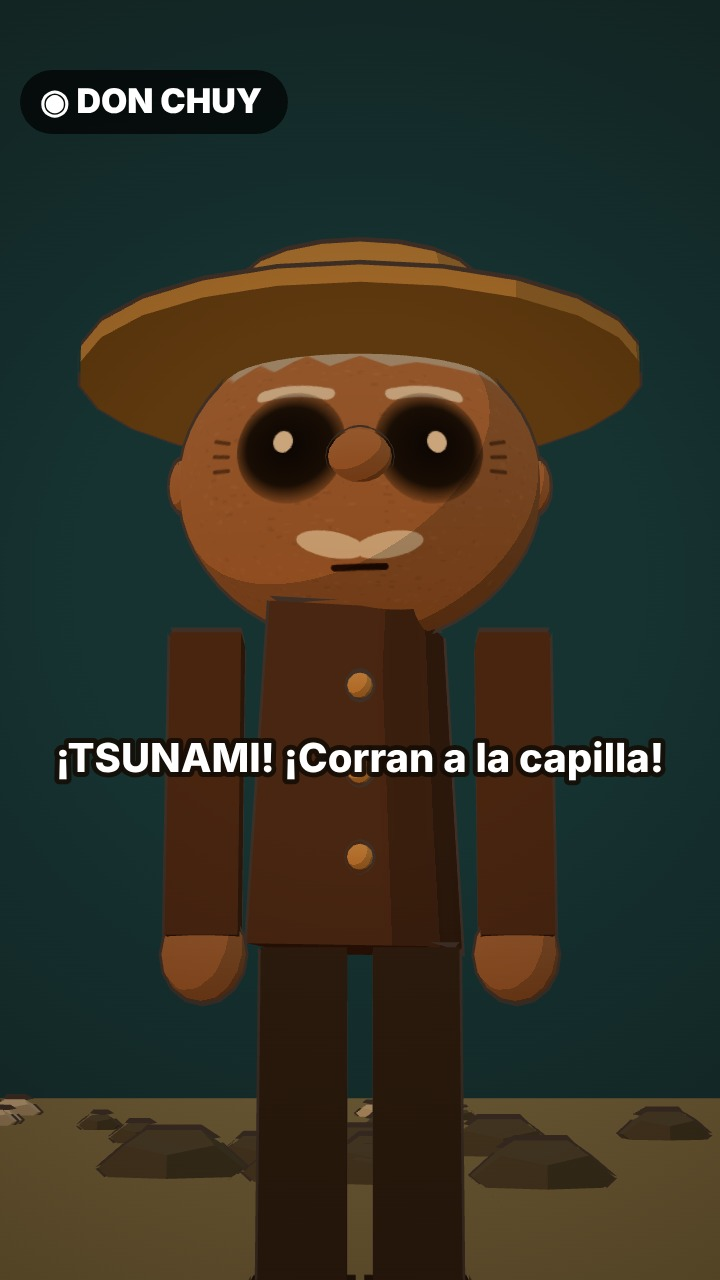
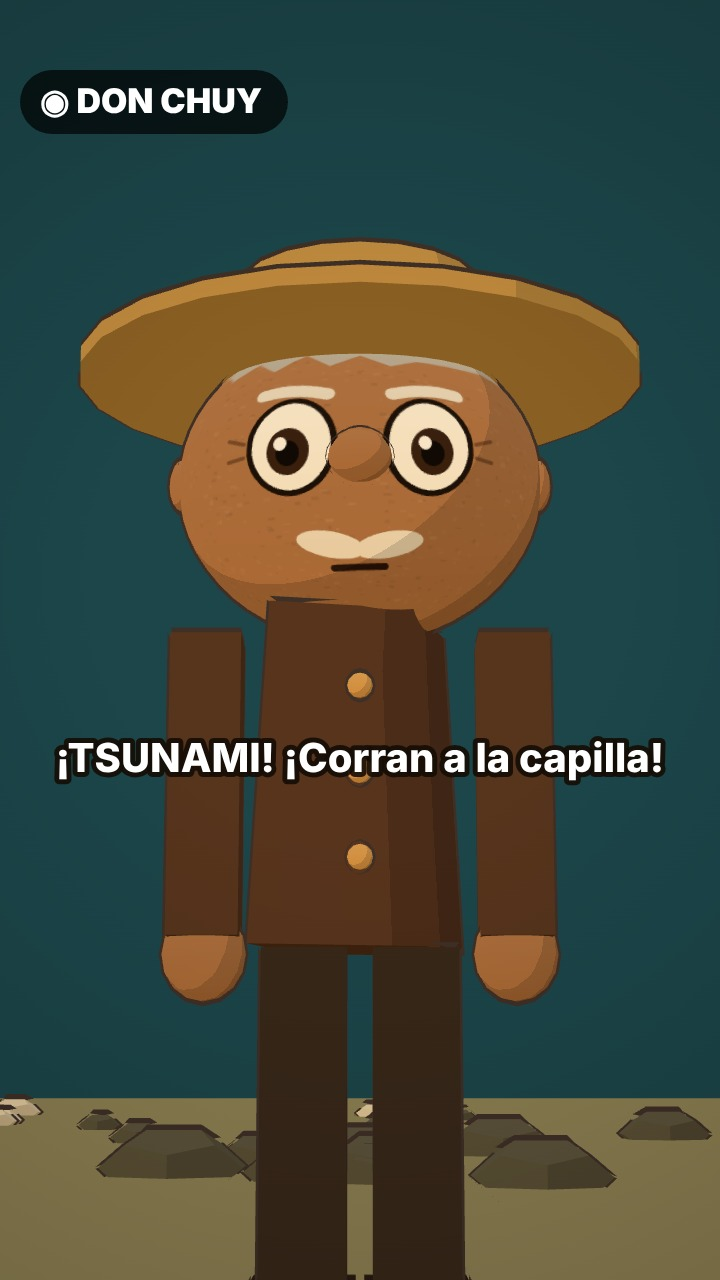
Personajes: solo la forma de la referencia, ojos normales y colores de playa
Claude-Session: https://claude.ai/code/session_01464Uwv7piUvh5Q9hg4RwxF

diff --git a/el-mar-se-fue/render/chars.js b/el-mar-se-fue/render/chars.js
@@ -29,15 +29,15 @@ function faceTex(o) {
   // eyebrows
   g.strokeStyle = o.brow; g.lineWidth = 14; g.lineCap = 'round';
   for (const s of [-1, 1]) { g.beginPath(); g.moveTo(cx + s * 30, 196 - (o.worried ? s * 0 : 0)); g.quadraticCurveTo(cx + s * 62, o.worried ? 176 : 186, cx + s * 96, o.worried ? 200 : 192); g.stroke(); }
-  // sunken eye sockets with tiny white pupils
+  // ojos normales de caricatura: blanco, pupila, brillo
   for (const s of [-1, 1]) {
-    const ex = cx + s * 64, ey = 250;
-    const grd = g.createRadialGradient(ex, ey, 6, ex, ey, 62); grd.addColorStop(0, 'rgba(18,14,10,1)'); grd.addColorStop(0.62, 'rgba(25,20,14,0.95)'); grd.addColorStop(1, 'rgba(40,28,18,0)');
-    g.fillStyle = grd; g.beginPath(); g.ellipse(ex, ey, 52, 58, 0, 0, Math.PI * 2); g.fill();
-    g.fillStyle = '#f4efe2'; g.beginPath(); g.ellipse(ex + s * 4, ey - 4, 9, 11, 0, 0, Math.PI * 2); g.fill();
-    if (o.drips) { g.strokeStyle = 'rgba(20,14,10,0.95)'; g.lineWidth = 9; for (const k of [-24, -6, 14, 30]) { g.beginPath(); g.moveTo(ex + k, ey + 40); g.lineTo(ex + k + (rnd() - 0.5) * 6, ey + 78 + rnd() * 50); g.stroke(); } }
-    // wrinkle ticks
-    g.strokeStyle = 'rgba(40,25,15,0.55)'; g.lineWidth = 4; for (let k = 0; k < (o.old ? 3 : 1); k++) { g.beginPath(); g.moveTo(ex + s * 62, ey - 10 + k * 14); g.lineTo(ex + s * 82, ey - 16 + k * 16); g.stroke(); }
+    const ex = cx + s * 62, ey = 250;
+    g.fillStyle = '#fbf8f1'; g.beginPath(); g.ellipse(ex, ey, 40, 48, 0, 0, Math.PI * 2); g.fill();
+    g.strokeStyle = '#1e140c'; g.lineWidth = 6; g.stroke();
+    g.fillStyle = o.iris || '#3b2414'; g.beginPath(); g.ellipse(ex + s * 2, ey + 6, 20, 24, 0, 0, Math.PI * 2); g.fill();
+    g.fillStyle = '#120c08'; g.beginPath(); g.ellipse(ex + s * 2, ey + 8, 11, 13, 0, 0, Math.PI * 2); g.fill();
+    g.fillStyle = '#ffffff'; g.beginPath(); g.ellipse(ex + s * 2 - 7, ey - 2, 6, 7, 0, 0, Math.PI * 2); g.fill();
+    if (o.old) { g.strokeStyle = 'rgba(70,40,20,0.5)'; g.lineWidth = 4; g.beginPath(); g.moveTo(ex + s * 46, ey - 6); g.lineTo(ex + s * 64, ey - 12); g.moveTo(ex + s * 46, ey + 8); g.lineTo(ex + s * 64, ey + 10); g.stroke(); }
   }
   // mouth
   g.strokeStyle = '#2a1810'; g.lineWidth = 8; g.beginPath();
@@ -106,17 +106,17 @@ function caption(text, who) {
   ctx.font = '900 34px Inter'; ctx.textAlign = 'left'; ctx.fillStyle = '#fff'; ctx.fillText('◉ ' + who, 40, 103);
 }
 function grain(warm) {
-  const vg = ctx.createRadialGradient(W / 2, H * 0.45, H * 0.2, W / 2, H / 2, H * 0.75); vg.addColorStop(0, 'rgba(0,0,0,0)'); vg.addColorStop(1, `rgba(20,10,0,${warm ? 0.7 : 0.5})`); ctx.fillStyle = vg; ctx.fillRect(0, 0, W, H);
+  const vg = ctx.createRadialGradient(W / 2, H * 0.45, H * 0.2, W / 2, H / 2, H * 0.75); vg.addColorStop(0, 'rgba(0,0,0,0)'); vg.addColorStop(1, `rgba(0,0,0,${warm ? 0.45 : 0.25})`); ctx.fillStyle = vg; ctx.fillRect(0, 0, W, H);
 }
 
 window.renderCast = function () {
   R = 7;
-  const sc = scene0(0x6b4a2c, { sky: 0xffe2b8, ground: 0x4a3020, hemi: 1.2, key: 0xffd29a, keyI: 2.2, pos: [3, 5, 6] });
-  const floor = new THREE.Mesh(new THREE.PlaneGeometry(40, 40), M(0x8a6440)); floor.rotation.x = -Math.PI / 2; sc.add(floor);
-  const order = ['chuy', 'dani', 'tu', 'leo', 'leoMal']; const xs = [-2.3, -1.15, 0, 1.0, 1.95];
+  const sc = scene0(0x8ec9dc, { sky: 0xffffff, ground: 0xe9cf9e, hemi: 1.3, key: 0xfff0d6, keyI: 2.2, pos: [3, 5, 6] });
+  const floor = new THREE.Mesh(new THREE.PlaneGeometry(40, 40), M(0xf0d9a8)); floor.rotation.x = -Math.PI / 2; sc.add(floor);
+  const order = ['chuy', 'dani', 'tu', 'leo']; const xs = [-1.9, -0.65, 0.6, 1.7];
   const people = order.map((k, i) => { const p = person(CAST[k]); p.position.x = xs[i]; p.rotation.y = -xs[i] * 0.08; sc.add(p); return [k, p]; });
   const cam = new THREE.PerspectiveCamera(30, W / H, 0.1, 100); cam.position.set(0, 1.4, 19); cam.lookAt(0, 1.3, 0);
-  effect.render(sc, cam); ctx.drawImage(renderer.domElement, 0, 0); grain(true);
+  effect.render(sc, cam); ctx.drawImage(renderer.domElement, 0, 0); grain(false);
   ctx.textAlign = 'center'; ctx.textBaseline = 'middle';
   people.forEach(([k, p]) => { const v = new THREE.Vector3(p.position.x, p.top + 0.25, 0).project(cam); const x = (v.x * 0.5 + 0.5) * W, y = (-v.y * 0.5 + 0.5) * H;
     const t = k === 'leoMal' ? 'LEO (después)' : CAST[k].name; ctx.font = '800 20px Inter'; const w = ctx.measureText(t).width + 18; ctx.fillStyle = 'rgba(0,0,0,0.75)'; ctx.beginPath(); ctx.roundRect(x - w / 2, y - 16, w, 32, 16); ctx.fill(); ctx.fillStyle = '#fff'; ctx.fillText(t, x, y + 1); });
@@ -126,7 +126,7 @@ window.renderCast = function () {
 
 window.renderCloseup = function (key, line, who) {
   R = 11;
-  const sc = scene0(0x2c4a52, { sky: 0x9cc8d0, ground: 0x6a5a3a, hemi: 1.0, key: 0xffc58a, keyI: 1.8, pos: [-4, 3, 5] });
+  const sc = scene0(0x9bbfd0, { sky: 0xe6f2f6, ground: 0xd8c08e, hemi: 1.3, key: 0xffe2b8, keyI: 2.0, pos: [-4, 3, 5] });
   const ground = new THREE.Mesh(new THREE.PlaneGeometry(200, 200), M(0x8f8a62)); ground.rotation.x = -Math.PI / 2; sc.add(ground);
   for (let i = 0; i < 40; i++) { const r = new THREE.Mesh(new THREE.DodecahedronGeometry(0.15 + rnd() * 0.3, 0), M(rnd() < 0.3 ? 0xe8dcc0 : 0x5e5a48)); r.position.set((rnd() - 0.5) * 16, 0.05, -rnd() * 30); r.scale.y = 0.5; sc.add(r); }
   // wall of water behind
